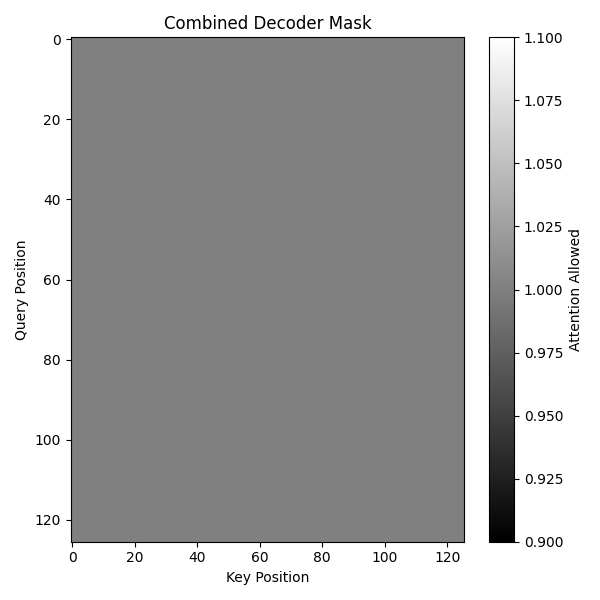
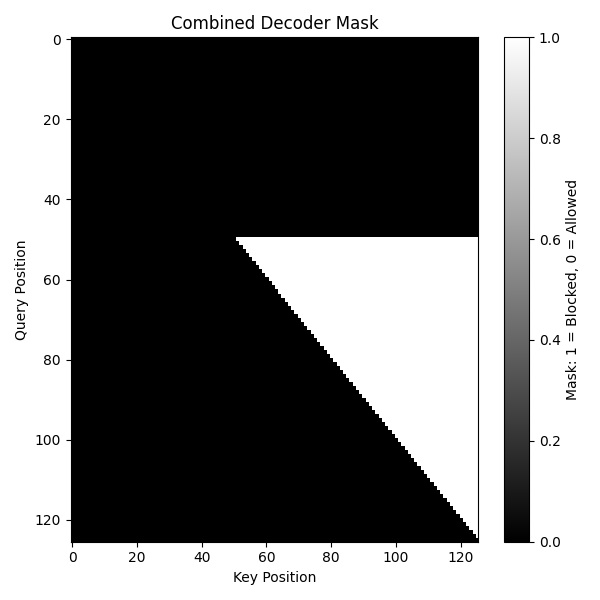
h

diff --git a/CaptionTransformerDecoder.py b/CaptionTransformerDecoder.py
@@ -13,18 +13,17 @@ import matplotlib.pyplot as plt
 def save_attention_mask(mask, filename="mask.png", title="Attention Mask"):
     import matplotlib.pyplot as plt
 
-    # Accept 2D [seq_len, seq_len] masks directly
-    if mask.dim() == 2:
-        data = (~torch.isinf(mask)).cpu().numpy()
-    else:
-        raise ValueError("Expected 2D attention mask")
+    if mask.dtype != torch.bool:
+        raise ValueError("Expected boolean mask")
+
+    data = mask.cpu().numpy().astype(int)  # True → 1, False → 0
 
     plt.figure(figsize=(6, 6))
     plt.imshow(data, cmap='gray', aspect='auto', interpolation='nearest')
     plt.title(title)
     plt.xlabel("Key Position")
     plt.ylabel("Query Position")
-    plt.colorbar(label='Attention Allowed')
+    plt.colorbar(label='Mask: 1 = Blocked, 0 = Allowed')
     plt.tight_layout()
     plt.savefig(filename)
     plt.close()
